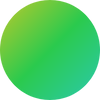
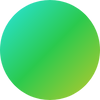
Minor Updates
Fixes minor errors found by @Natolida  during review.

diff --git a/docs/usage/interface.md b/docs/usage/interface.md
@@ -10,7 +10,7 @@
 
 **The main screen of Trio can be divided into four sections:**
 
-![Trio Main Screen](img/Light mode UI.png){width="500"}
+![Trio Main Screen](img/light_mode_sections.png){width="500"}
 {align="center"}
 
 Use the links below to learn more about each section:  
@@ -20,11 +20,11 @@ Use the links below to learn more about each section:
 
 ### Current Status
 
-![Trio Current Status](img/current_status.png){width="400"}
-{align="center"}
-
 The Current Status section functions as an easy reference point for a variety of important data points.  
 Use the tabs below to learn more about each section:  
+
+![Trio Current Status](img/current_status.png){width="400"}
+{align="center"}  
 
 <div class="grid" markdown>
 
@@ -93,7 +93,7 @@ Use the tabs below the image to learn more about each section.
 <div class="grid" markdown>
 
 === "Basal Adjustments"
-    Here you will find the adjustments made to your basal delivery. See below for more detail:  
+    Here you will find the adjustments made to your basal delivery. See below for more details:  
     
     ![Basal Line](img/blue_basal_line.png){width="40" style="vertical-align: middle;"}  **Therapy Basal Reference Line:** The rate you entered in settings. Trio 0.2 "Profile Basal Rate"  
     ![No Adjustment](img/no_adjustment.png){width="40" style="vertical-align: middle;"}  **No Basal Adjustment** Basal is being delivered at your current therapy basal rate.  
@@ -103,27 +103,42 @@ Use the tabs below the image to learn more about each section.
 === "Current & Previous Activity"
     This section shows a combined view of your previous, current, and forecasted activity.
     
-    !!! info inline end "Graph Legend"
-    
-        <span style="color: #35c759;">:fontawesome-solid-circle:</span>  CGM Glucose Value  
-        <span style="color: #35c759;">:fontawesome-solid-circle-dot:</span>  CGM Glucose Value (Smoothed)  
-        <span style="color: red;">:fontawesome-solid-droplet:</span>  Manual Glucose Entry  
-        ![Bolus Icon](img/bolus.png){width="15" style="vertical-align: middle;"}  Bolus (SMB or Manual)  
-        ![Carb Icon](img/carb.png){width="15" style="vertical-align: middle;"}  Carb Entry  
-        <span style="color: #a1845c;">:fontawesome-solid-circle:</span>  Fat-Protein Carb Equivalent (FPU)  
-        ![Override Icon](img/override_icon.png){width="15" style="vertical-align: middle;"}  Override Active  
-        ![Temp Target Icon](img/temp_target_icon.png){width="15" style="vertical-align: middle;"}  Temp Target Active  
-        ![Target Glucose Icon](img/target_glucose.png){width="15" style="vertical-align: middle;"}  Target Glucose  
         
     === "![Cone of Uncertainty](img/cone_of_uncertainty.png){width="20" style="vertical-align: middle;"}  **Cone of Uncertainty**"
+        
+        !!! info inline end "Graph Legend"
     
-        This forecast option displays the full range of possible forecasted predictions as a simplified view of oref's four forecast lines.
+            <span style="color: #35c759;">:fontawesome-solid-circle:</span>  CGM Glucose Value  
+            <span style="color: #35c759;">:fontawesome-solid-circle-dot:</span>  CGM Glucose Value (Smoothed)  
+            <span style="color: red;">:fontawesome-solid-droplet:</span>  Manual Glucose Entry  
+            ![Bolus Icon](img/bolus.png){width="15" style="vertical-align: middle;"}  Bolus (SMB or Manual)  
+            ![Carb Icon](img/carb.png){width="15" style="vertical-align: middle;"}  Carb Entry  
+            <span style="color: #a1845c;">:fontawesome-solid-circle:</span>  Fat-Protein Carb Equivalent (FPU)  
+            ![Override Icon](img/override_icon.png){width="15" style="vertical-align: middle;"}  Override Active  
+            ![Temp Target Icon](img/temp_target_icon.png){width="15" style="vertical-align: middle;"}  Temp Target Active  
+            ![Target Glucose Icon](img/target_glucose.png){width="15" style="vertical-align: middle;"}  Target Glucose  
+        
+        
+        This forecast option displays the full range of possible forecasted predictions as a simplified view of oref's four forecast lines.  
         
     === "![Forecast Lines](img/forecast_lines.png){width="20" style="vertical-align: middle;"}  **Forecast Lines**"
+        
+        !!! info inline end "Graph Legend"
     
-        <span style="color: #1895ff;">:fontawesome-solid-circle:</span>  **IOB Forecast:** Forecasts future flucose readings based on the amount of insulin still active in the body  
+            <span style="color: #35c759;">:fontawesome-solid-circle:</span>  CGM Glucose Value  
+            <span style="color: #35c759;">:fontawesome-solid-circle-dot:</span>  CGM Glucose Value (Smoothed)  
+            <span style="color: red;">:fontawesome-solid-droplet:</span>  Manual Glucose Entry  
+            ![Bolus Icon](img/bolus.png){width="15" style="vertical-align: middle;"}  Bolus (SMB or Manual)  
+            ![Carb Icon](img/carb.png){width="15" style="vertical-align: middle;"}  Carb Entry  
+            <span style="color: #a1845c;">:fontawesome-solid-circle:</span>  Fat-Protein Carb Equivalent (FPU)  
+            ![Override Icon](img/override_icon.png){width="15" style="vertical-align: middle;"}  Override Active  
+            ![Temp Target Icon](img/temp_target_icon.png){width="15" style="vertical-align: middle;"}  Temp Target Active  
+            ![Target Glucose Icon](img/target_glucose.png){width="15" style="vertical-align: middle;"}  Target Glucose  
+        
+        
+        <span style="color: #1895ff;">:fontawesome-solid-circle:</span>  **IOB Forecast:** Forecasts future glucose readings based on the amount of insulin still active in the body  
         <span style="color: #6f62f3;">:fontawesome-solid-circle:</span>  **ZT Forecast:** Forecasts the worst-case future glucose reading scenario if no carbs are absorbed and insulin delivery is stopped until glucose begins to rise  
-        <span style="color: #ffc246;">:fontawesome-solid-circle:</span>  **COB Forecast:** Forecasts future glucose reasings by considering the amount of carbohydrates still being absorbed in the body  
+        <span style="color: #ffc246;">:fontawesome-solid-circle:</span>  **COB Forecast:** Forecasts future glucose readings by considering the amount of carbohydrates still being absorbed in the body  
         <span style="color: #ff8340;">:fontawesome-solid-circle:</span>  **UAM Forecast:** Forecasts future glucose levels based on the difference between expected glucose and actual glucose readings
     
     - - -
@@ -174,7 +189,8 @@ Use the tabs below the image to learn more about each section.
         This opens the statistics view. You can learn more about the new statistics page [here](statistics.md).
             
     === "Time Frame"
-        This allows you to choose the time frame shown in the graph. It defaults to 6 hours, but you can choose 4, 6, 12, or 24 hours to be displayed.
+        This allows you to choose the time frame shown in the graph.  
+        It defaults to 6 hours, but you can choose 4, 6, 12, or 24 hours to be displayed.
             
     === "Legend"
         Tapping this will open a detailed, in-app description of each item shown on the graph.
@@ -201,21 +217,21 @@ Use the tabs below to learn more:
     {align="center"}
     
     - Shows the status of current bolus
-    - Press the ![Cancel Icon](img/x.square.png){width="20" style="vertical-align: middle;"} to cancel the current bolus
+    - Press the ![Cancel Icon](img/x_square.png){width="20" style="vertical-align: middle;"} to cancel the current bolus
     
 === "![Override Icon](img/icon_override.png){width="15" style="vertical-align: middle;"} Active Override"
     ![Active Override](img/override_active.png){width="300"}
     {align="center"}
     
     - Shows details of the current override running
-    - Press the ![Cancel Icon](img/x.square.png){width="20" style="vertical-align: middle;"} to cancel the override
+    - Press the ![Cancel Icon](img/x_square.png){width="20" style="vertical-align: middle;"} to cancel the override
     
 === "![Temp Target Icon](img/target.png){width="15" style="vertical-align: middle;"} Active Temp Target"
     ![Active Temp Target](img/temp_target_active.png){width="300"}
     {align="center"}
     
     - Shows details of the current temp target running
-    - Press the ![Cancel Icon](img/x.square.png){width="20" style="vertical-align: middle;"} to cancel the temp target
+    - Press the ![Cancel Icon](img/x_square.png){width="20" style="vertical-align: middle;"} to cancel the temp target
 
 </div>
 
@@ -223,12 +239,12 @@ Use the tabs below to learn more:
 
 ### Action Buttons
 
+At the bottom of the screen, you have five action buttons. Use the tabs below to learn more about each section:  
+
 ![Trio Actions](img/actions.png){width="400"}
 {align="center"}
 
 <!-- Intentionally left off the "s" in the nested Adjustments tab title because it keeps jumping to the Adjustments tab above -->
-
-At the bottom of the screen, you have five action buttons. Use the tabs below to learn more about each section:  
 
 <div class="grid" markdown>
 
@@ -267,7 +283,7 @@ At the bottom of the screen, you have five action buttons. Use the tabs below to
     
     === "Overrides"
         - Add an override by tapping the "+" at the top right
-        - With an override you can:
+        - With an override, you can:
             - Name your override to save it as a preset
             - Increase or decrease basal by a percentage
             - Attribute that % change to both ISF and CR, just one of them, or neither of them
@@ -279,7 +295,7 @@ At the bottom of the screen, you have five action buttons. Use the tabs below to
         
     === "Temp Targets"
         - Add a temp target by tapping the "+" at the top right
-        - With a Temp Target you can:
+        - With a Temp Target, you can:
             - Name your temp target to save it as a preset
             - Set your temporary target glucose
             - Set it to start now or in the future
